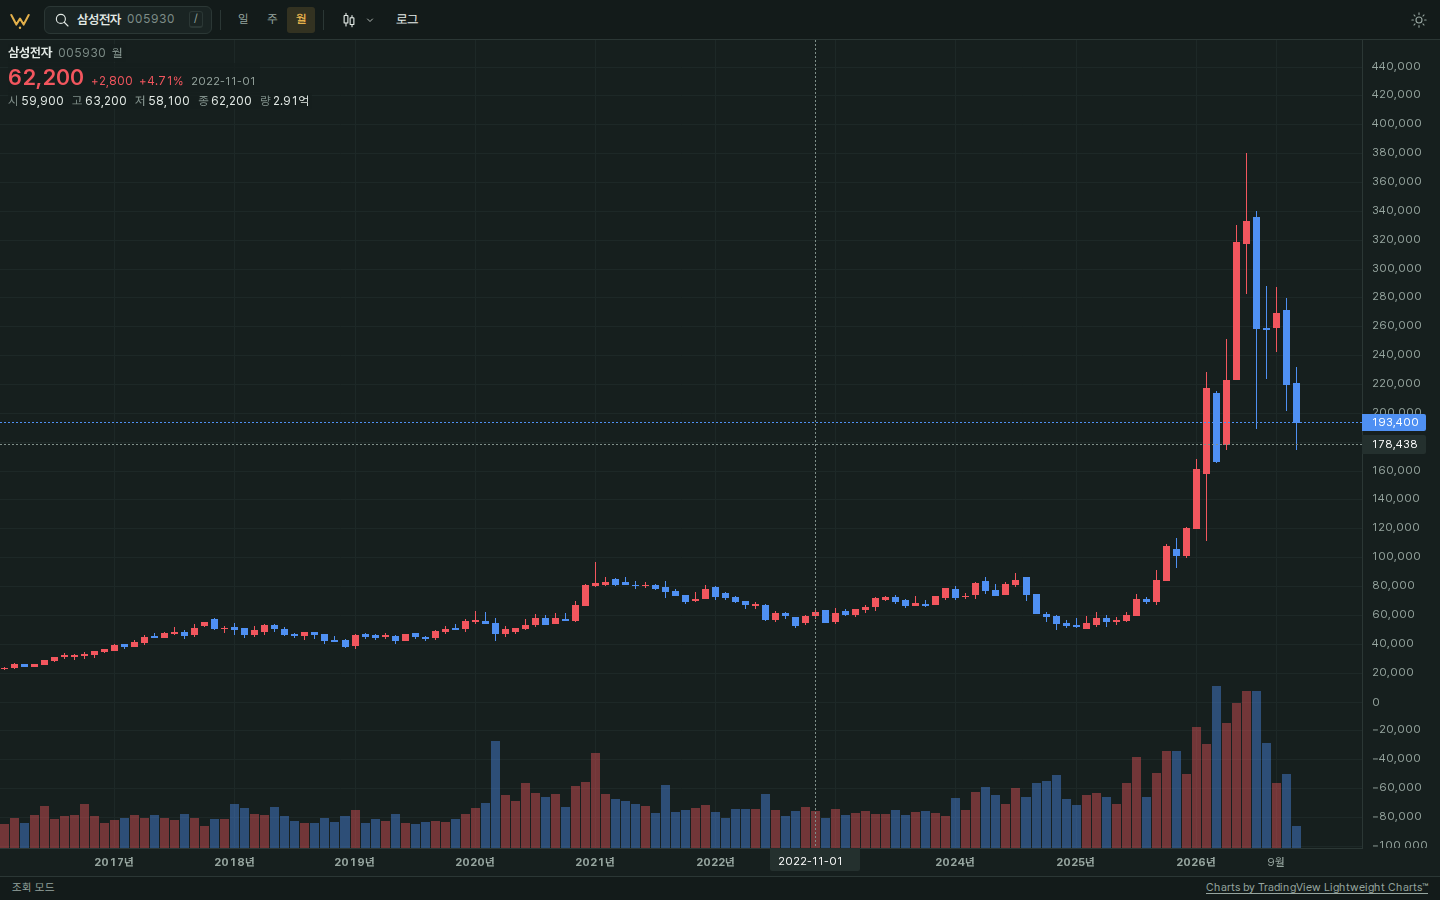
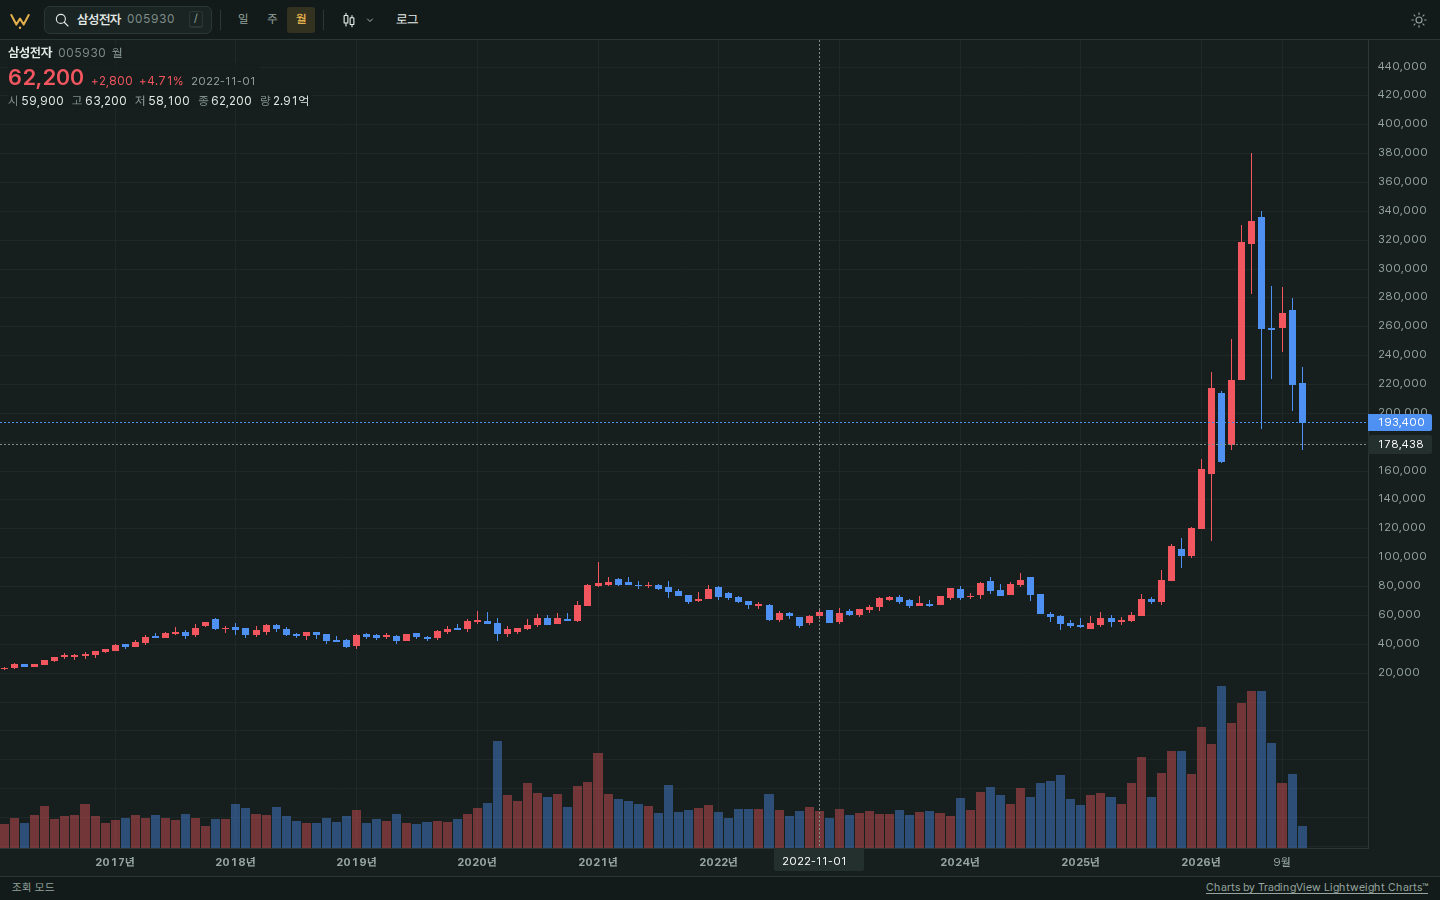
fix(web): 가격 축의 0 이하 눈금을 비운다
가격 축이 거래량 여백까지 이어져 주봉에서 -60,000 같은 눈금이 보였다. 스크린샷을 다시 찍었다.

diff --git a/web/src/chart/series.ts b/web/src/chart/series.ts
@@ -24,7 +24,8 @@ export type MainSeries =
 export const VOLUME_SCALE_ID = "volume";
 
 export function priceFormat(isIndex: boolean): PriceFormat {
-  return { type: "custom", minMove: isIndex ? 0.01 : 1, formatter: (p: number) => formatPrice(p, isIndex) };
+  // 가격 축은 거래량을 깔아 둔 아래 여백까지 이어져 0 밑 눈금을 낸다. 가격은 0보다 크니 비운다.
+  return { type: "custom", minMove: isIndex ? 0.01 : 1, formatter: (p: number) => (p <= 0 ? "" : formatPrice(p, isIndex)) };
 }
 
 function colors(style: ChartStyle, t: ThemeTokens) {
